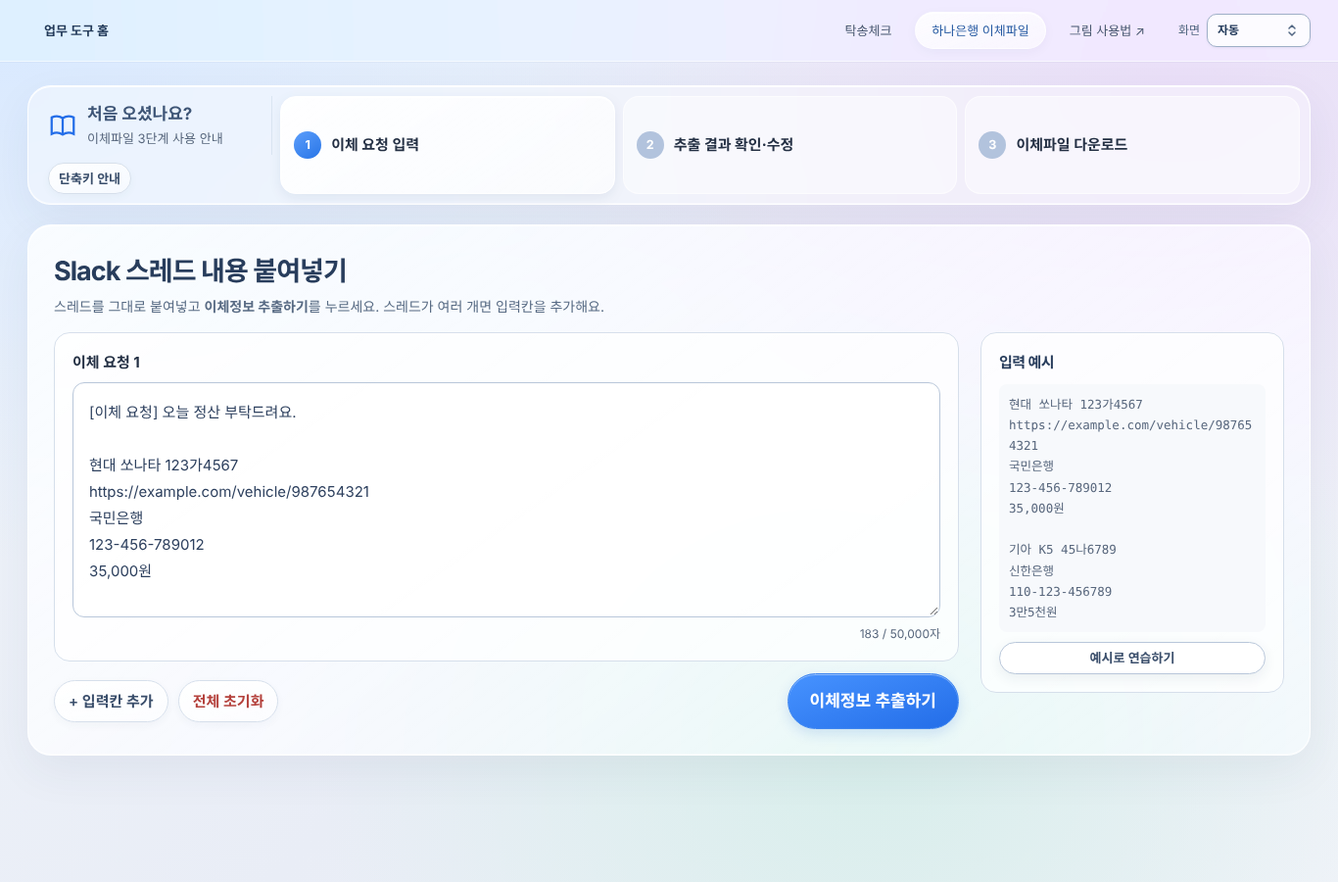
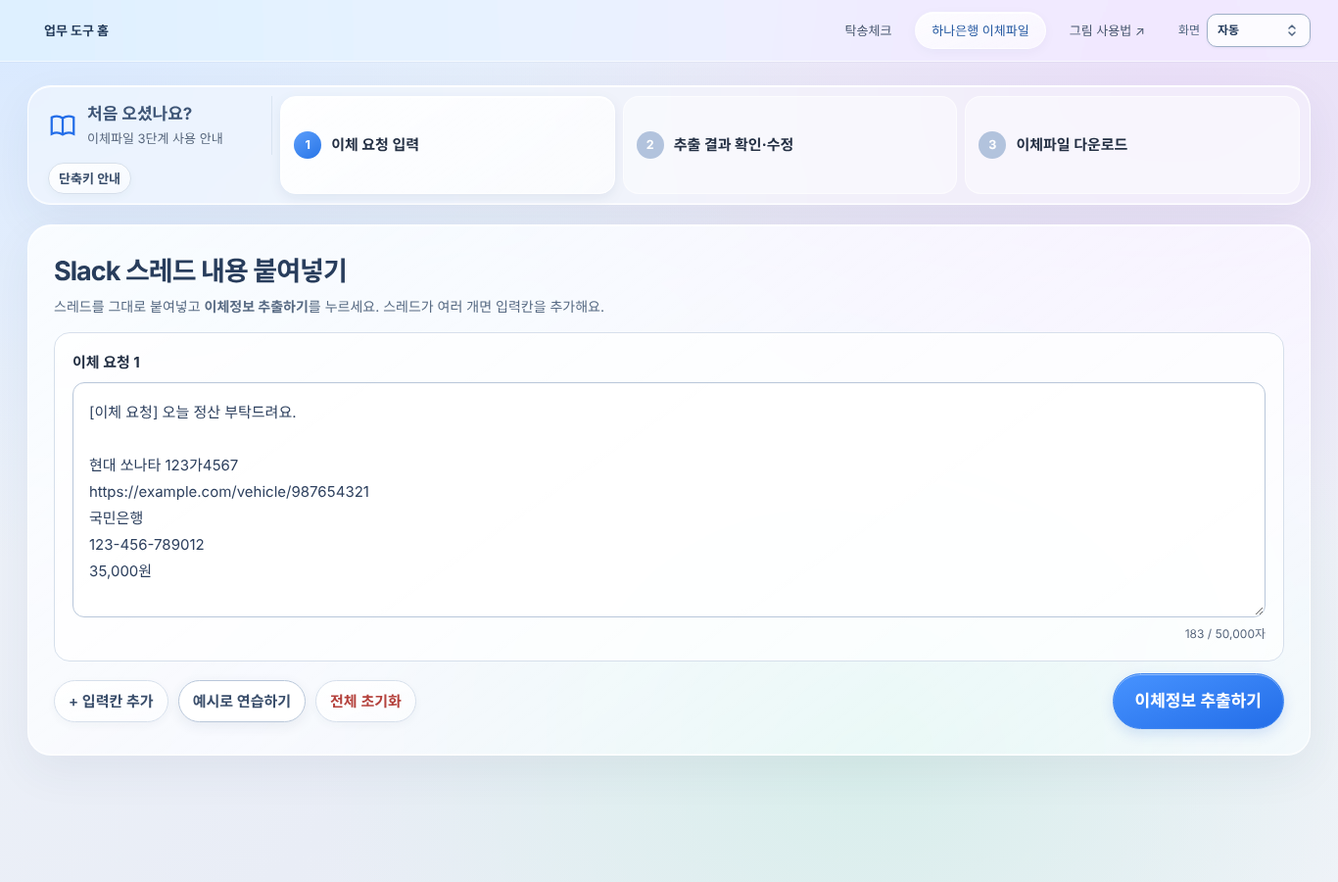
이체파일 1단계 입력 예시 상자 제거, 예시로 연습하기 버튼을 버튼 줄로 이동
- 입력칸이 화면 너비 전체 사용, 휴대폰에서 1단계가 한 화면에 들어옴
- 사용법 그림 번호를 화면 순서(입력칸 추가 → 예시 → 추출)로 재생성

Claude-Session: https://claude.ai/code/session_01U6esxNTNJgsoCbKuaTQs7w

diff --git a/changelog.html b/changelog.html
@@ -3,4 +3,4 @@
 :root{font-family:-apple-system,BlinkMacSystemFont,"Segoe UI","Malgun Gothic",sans-serif;color:#253e35;background:#f5f7f5;line-height:1.8}*{box-sizing:border-box}body{margin:0}a{color:#254b3b;text-underline-offset:4px}a:hover{text-decoration-thickness:2px}a:focus-visible,summary:focus-visible{outline:3px solid #397956;outline-offset:4px}nav{display:flex;flex-wrap:wrap;gap:12px 24px;padding:14px max(20px,calc((100vw - 1120px)/2));background:#fff;border-bottom:1px solid #dfe7e1;font-size:14px}nav a{text-decoration:none}main{max-width:1120px;margin:auto;padding:44px 24px 64px}.eyebrow{font-size:12px;letter-spacing:2px;color:#60766a}h1{font-size:clamp(28px,5vw,40px);line-height:1.35;letter-spacing:-1px;margin:12px 0 16px}h2{font-size:23px;line-height:1.5;margin:0 0 18px}h3{font-size:17px;margin:24px 0 8px}p{margin:10px 0}header>p{color:#60766a;max-width:740px}.button{display:inline-block;background:#254b3b;color:#fff;border-radius:9px;padding:10px 18px;text-decoration:none;margin:12px 0}.layout{display:grid;grid-template-columns:220px minmax(0,1fr);gap:28px;margin-top:28px}.toc{align-self:start;position:sticky;top:20px;background:#fff;border:1px solid #dfe7e1;border-radius:14px;padding:20px;font-size:14px}.toc strong{display:block;margin-bottom:12px}.toc a{display:block;padding:5px 0;text-decoration:none}.content{min-width:0}section{background:#fff;border:1px solid #dfe7e1;border-radius:14px;padding:28px;margin-bottom:20px;scroll-margin-top:20px}li{margin:8px 0}ol,ul{padding-left:23px}.note{background:#edf5ee;border-left:4px solid #397956;padding:12px 16px;border-radius:5px;margin:16px 0}.review-note{background:#fff4db;border-color:#a66a00}pre{background:#f5f7f5;border:1px solid #e0e8e2;padding:16px;border-radius:9px;overflow:auto;font-size:14px;line-height:1.8}code{font-family:ui-monospace,monospace}.tablewrap{overflow-x:auto}table{border-collapse:collapse;width:100%;font-size:14px}th,td{padding:12px;text-align:left;vertical-align:top;border-bottom:1px solid #e0e8e2}th{background:#f5f7f5;white-space:nowrap}.badge{display:inline-block;font-size:13px;font-weight:650;border-radius:5px;padding:3px 8px;white-space:nowrap}.needs{background:#fff4db;color:#8a5700}.missing{background:#eef1f4;color:#526171}.waiting{background:#e8f2ff;color:#245b9e}details{border-bottom:1px solid #e0e8e2;padding:14px 0}summary{cursor:pointer;font-weight:650}footer{font-size:13px;color:#60766a;margin-top:28px}@media(max-width:760px){main{padding:28px 16px 40px}.layout{grid-template-columns:1fr;gap:20px}.toc{position:static}.toc a{display:inline-block;margin-right:16px}section{padding:22px 18px}th,td{padding:10px 8px}}@media print{nav,.toc,.button{display:none}.layout{display:block}main{max-width:none;padding:0}section{break-inside:avoid;border:0;padding:15px 0}body{background:#fff}details{break-inside:avoid}}
  .commits{font-size:12px;color:#60766a;line-height:2;overflow-wrap:anywhere}caption{text-align:left;font-weight:650;padding:12px 0}h2 time{font-variant-numeric:tabular-nums}</style><link rel="stylesheet" href="./assets/mac-glass.css?v=20261118-1">
 <script src="./assets/theme.js?v=20261116-1"></script>
-</head><body class="mac-ui" data-page="changelog"><nav aria-label="기능 이동"><a href="./index.html">← 홈</a><a href="./dispatch.html">탁송체크</a><a href="./transfer.html">하나은행 이체파일</a><a href="./changelog.html" aria-current="page">Change Log</a></nav><main id="top"><header><div class="eyebrow">WORKTOOL UPDATES</div><h1>Change Log</h1><p>탁송체크와 하나은행 이체툴의 주요 변경사항을 날짜별로 확인하세요.</p><p>날짜는 main 반영 이력의 한국 시간 기준이며, 같은 날의 수정은 최종 반영된 동작으로 정리했어요.</p><a href="https://github.com/chowonki/WorkTool/blob/main/CHANGELOG.md" target="_blank" rel="noopener">GitHub에서 보기 ↗</a></header><div class="layout"><aside class="toc" aria-label="변경 날짜"><strong>날짜별 보기</strong><a href="#date-2026-11-04">2026-11-04</a><a href="#date-2026-11-03">2026-11-03</a><a href="#date-2026-11-02">2026-11-02</a><a href="#date-2026-10-31">2026-10-31</a><a href="#date-2026-10-30">2026-10-30</a><a href="#date-2026-10-29">2026-10-29</a></aside><div class="content"><section id="date-2026-11-18"><h2><time datetime="2026-11-18">2026-11-18</time></h2><h3>불필요한 항목 정리</h3><ul><li>탁송체크: 제목 위아래의 영문 표시·설명 문장, '이 기기에서만 처리' 표시, 카드 안 안내 문장, '자동인식' 표시, 조회 버튼 아래 안내, 빈 화면 태그, 아래쪽 열 안내 줄을 지웠어요.</li><li>탁송체크 표: '선택'과 '완료' 체크를 나란히 놓아 한 줄 높이를 줄이고, 전체 선택·필터 지우기·열 너비 초기화를 '조회 결과' 제목 줄로 올렸어요.</li><li>이체파일: 단계 버튼의 보조 설명, 1단계 도움말 상자(사용 안내 창과 중복), 2단계의 반복 안내, 3단계 열 순서 설명을 지우고 남은 안내 문장은 짧게 줄였어요.</li><li>홈: 긴 설명 문장을 줄이고 아래쪽 버전 표시를 지웠어요.</li><li>바뀐 화면에 맞춰 사용법 그림을 다시 만들었어요.</li></ul><h3>화면 배치</h3><ul><li>탁송체크 위쪽 머리줄 세 겹을 하나로 합쳤어요. 체험 데이터·전체 초기화·도움말(?) 버튼이 제목 옆에 모였어요.</li><li>탁송체크 입력 카드 두 개를 나란히 넓게 놓고, 차량 조회하기 버튼을 그 아래 오른쪽에 뒀어요. 결과 필터는 탭 한 줄, 필터·검색 한 줄로 정리했어요.</li><li>이체파일 1단계 버튼을 한 줄로 모았어요(입력칸 추가·전체 초기화 왼쪽, 이체정보 추출하기 오른쪽).</li><li>이체파일 2단계는 이체 내역 표를 넓은 왼쪽에, 통장 메모·CMS 설정을 오른쪽에 두고, 표 도구 버튼을 한 줄로 합쳤어요.</li><li>이체파일 3단계는 미리보기 → 확인 체크 → 다운로드 → 주의 → 송금 코멘트 순서로 바꿨어요.</li><li>휴대폰에서 이체 내역 카드가 상자 밖으로 넘치던 문제와 3단계 화면이 옆으로 밀리던 문제를 고쳤어요.</li><li>바뀐 배치에 맞춰 사용법 그림을 다시 만들었어요.</li></ul></section><section id="date-2026-11-17"><h2><time datetime="2026-11-17">2026-11-17</time></h2><h3>사용법 그림</h3><ul><li>그림 사용법 스크린샷 4장을 지금 Liquid Glass 화면으로 다시 찍었어요. 화면 위에는 번호와 파란 테두리만 표시하고, 설명은 아래 카드에 해요체로 정리했어요.</li><li>그림 사용법·상세 사용방법의 그림 설명을 새 그림의 번호에 맞춰 다시 썼어요.</li><li>탁송체크 표에서 '중첩 비용 · 선택 필요' 드롭다운과 탁송비용 머리글이 잘리지 않게 기본 열 너비를 넓혔어요.</li><li>연결된 곳이 없던 예전 탁송체크 화면(dispatch-tool.html)을 지웠어요.</li></ul><h3>문구·사용법</h3><ul><li>탁송체크 상세 사용방법·README를 지금 화면에 맞게 줄였어요. 지금은 없는 수동확인, 중복 검토 목록, 탁송건 선택, 처리 완료 일괄 표시 설명을 지우고, 실제 조회 기준·조회 상태·일정/비용 선택·필터·저장 범위를 정리했어요.</li><li>사용법 문서가 없는 기능을 다시 설명하거나 딱딱한 말투가 섞이면 자동 테스트가 알려 줘요.</li><li>사이트 전체 안내 문구를 친근한 해요체(예: 확인해요, 붙여요)로 바꿨어요.</li><li>이체파일 상세 사용방법과 README를 지금 화면에 맞게 다시 썼어요. 예전 3페이지 구성·4시간 임시 저장·되돌리기처럼 지금은 없는 기능 설명을 지웠어요.</li><li>사용 설명서의 '입력 내용이 사라졌어요' 등 자주 묻는 질문을 실제 동작에 맞게 고쳤어요.</li><li>한글이 줄 끝에서 단어 중간에 끊기지 않게 했고, 사용법 페이지 위쪽 메뉴도 유리 스타일로 맞췄어요.</li></ul><h3>화면·공통</h3><ul><li>Liquid Glass 화면을 다듬었어요. 유리 효과는 바깥 판에만 쓰고 안쪽 상자는 겹쳐 흐리지 않게 해 글자가 더 또렷해요.</li><li>바깥 판·안쪽 상자·버튼의 모서리 둥글기를 단계별로 맞추고, 흰 바탕에 묻히던 버튼에 얇은 테두리를 넣었어요. 버튼은 캡슐 모양으로 통일했어요.</li><li>남아 있던 녹색 아이콘, 표 아래 흰 빈칸, 탁송체크 검색칸 이중 테두리, 다크 모드의 흰 ? 버튼을 정리했어요.</li><li>휴대폰에서 위쪽 메뉴가 두 줄로 깨지지 않고, 이체 단계 버튼 글자가 한 글자씩 줄바꿈되지 않게 했어요.</li><li>두 도구 위쪽 메뉴와 홈에 '그림 사용법' 링크를 넣었어요.</li><li>이체 금액에서 3.5억(→5억), 35,000.50원(→50원), -35,000원(→35,000원), 1/2만원(→2만원)처럼 잘못 읽히던 표기를 금액 확인 오류로 표시해요.</li><li>자동 테스트를 지금 화면 기준으로 다시 작성하고, 이체파일 실제 브라우저 테스트를 추가했어요.</li></ul><h3>하나은행 이체파일</h3><ul><li>이미 추출한 스레드를 고쳐서 다시 추출하면 전에 넣은 건은 다시 넣지 않고 새 건만 추가해요. 같은 스레드를 다른 입력칸에 또 붙여넣으면 건너뛰어요.</li><li>같은 은행·계좌·금액이 두 줄 이상이면 '두 번 송금 주의' 검토로 표시하고, 휴대폰 번호 형태의 계좌번호도 원문 확인 검토로 표시해요.</li><li>날짜·시간 줄을 계좌번호로 잘못 읽지 않아요.</li><li>나누면 100건을 넘는 큰 금액은 화면이 멈추지 않도록 나누지 않고 오류로 표시해요.</li><li>메모에 섞인 보이지 않는 제어문자를 지워 엑셀 파일이 깨지지 않게 했어요.</li><li>검토 확인 체크 후 내역을 바꾸면 다시 확인해야 받을 수 있고, 다운로드 버튼을 연달아 눌러도 한 번만 저장돼요.</li><li>붙여넣기 한도를 5만 자로 늘리고 잘리면 안내해요. 받지 않은 내역이 있을 때 새로고침·창 닫기를 하면 한 번 물어요.</li></ul></section><section id="date-2026-11-04"><h2><time datetime="2026-11-04">2026-11-04</time></h2><h3>탁송체크</h3><ul><li>탁송비용, 탁송비용 부가세, 총 탁송비용 항목을 추가했어요. 부가세는 탁송비용의 10%, 총 탁송비용은 비용과 부가세의 합계예요.</li><li>비용·부가세·총액을 각각 클릭하면 쉼표와 원 표시를 제외한 숫자를 복사해요. 미입력·선택 필요 상태는 복사하지 않아요.</li><li>세 비용 항목을 TXT·Excel·PDF 저장과 체험 데이터에 반영했어요. 빈칸은 미입력으로 유지하며, 탁송건을 선택하면 해당 기록의 비용을 적용해요.</li><li>동일 차량의 여러 탁송 기록을 날짜·업체·상태·금액·출발지·원본 위치로 비교하고 표시할 한 건을 직접 선택할 수 있어요. 선택은 결과·복사·저장에 반영되며 자동 조회로 되돌릴 수 있어요.</li><li>상단에 중복 검토 필요 차량 수와 검토 목록 링크를 추가했어요. 링크는 기존 필터를 해제하고 검토 대상만 표시하며, 탁송건을 적용한 차량은 목록에서 빠져요.</li><li>원본 탁송일시에 시간까지 표시하고, 같은 날이라도 시간이 다른 기록을 구분해요. 날짜 매칭과 기간 필터는 일자 기준으로 유지해요.</li><li>탁송완료일시·탁송접수일시를 함께 표시하고 두 값 중 최신 시각으로 기록을 정렬해요. 둘 다 없으면 탁송일시를 사용해요. 입력 날짜가 있으면 같은 운행일 내에서 비교하며, 금액 충돌·별도 운행은 사용자가 최종 선택해요.</li><li>체험 자료에도 업체별 접수 시각 열과 완료일시를 넣었어요. 12서7567·25마7579는 중복 검토·기록 선택, 77다1234는 캐리어 분류 예시예요.</li></ul><h3>공통</h3><ul><li>날짜별 변경 이력을 확인할 수 있는 Change Log 페이지와 CHANGELOG.md를 추가했어요. 홈과 각 도구 상단, README에서 열 수 있어요.</li></ul><div class="tablewrap"><table><caption>업체별 읽기 기준</caption><thead><tr><th scope="col">업체</th><th scope="col">접수일시 우선 열</th><th scope="col">탁송비용 열</th></tr></thead><tbody><tr><td>한빛탁송</td><td>I열</td><td>AP열</td></tr><tr><td>오픈마일</td><td>A열</td><td>U열</td></tr><tr><td>렌톡</td><td>C열 요청 시각</td><td>S열</td></tr></tbody></table></div><p class="commits">관련 변경: <a href="https://github.com/chowonki/WorkTool/commit/6a450fa" target="_blank" rel="noopener">총 탁송비용·개별 복사 (6a450fa)</a> · <a href="https://github.com/chowonki/WorkTool/commit/bfab8ce" target="_blank" rel="noopener">탁송비용·부가세 (bfab8ce)</a> · <a href="https://github.com/chowonki/WorkTool/commit/b247080" target="_blank" rel="noopener">중복 기록 선택 (b247080)</a> · <a href="https://github.com/chowonki/WorkTool/commit/386feee" target="_blank" rel="noopener">최신 시각 비교 (386feee)</a></p></section><section id="date-2026-11-03"><h2><time datetime="2026-11-03">2026-11-03</time></h2><h3>탁송체크</h3><ul><li>차량 선택 체크박스를 누른 채 드래그하여 여러 행을 연속 선택·해제할 수 있어요.</li><li>한빛탁송·오픈마일·렌톡별 일괄 선택 체크박스를 추가했어요. 현재 필터에 맞는 차량에 적용하고 선택 대수와 부분 선택 상태를 표시해요.</li><li>렌톡 캐리어 분류를 J열 캐리어탁송의 Y 여부로 판정하도록 변경했어요. 완료 여부와 관계없이 캐리어로 분류하고 렌톡 문의 목록에서 제외해요.</li><li>상세 사용방법 페이지를 만들고 홈·도구 화면에 새 탭 링크를 추가했어요.</li><li>렌톡 시트 다운로드 시 기간 기준을 요청시각에서 출발시각으로 변경해야 한다는 주의사항을 안내에 추가했어요.</li></ul><h3>하나은행 이체툴</h3><ul><li>상세 사용방법 페이지를 만들고 입력·검증·금액 분할·통장 메모·다운로드·복원·코멘트 사용을 안내해요.</li><li>송금완료 코멘트의 금액이 만원 단위로 나누어떨어지면 1,000,000원 → 100만원으로 표시해요. 나머지가 있으면 35,000원 → 35,000원처럼 원 단위 전체 금액으로 표시해요.</li><li>딜러 송금 코멘트에서 금액 대신 차대금을 사용해요. 예: 차대금 100만원 딜러에게 송금완료.</li><li>분할·복수 송금 코멘트에 총액을 함께 표시해요. 자동 분할한 건은 원래 지급 건으로 묶어 중복 합산하지 않아요.</li></ul><p class="commits">관련 변경: <a href="https://github.com/chowonki/WorkTool/commit/93286b2" target="_blank" rel="noopener">드래그·업체별 선택 (93286b2)</a> · <a href="https://github.com/chowonki/WorkTool/commit/4618c99" target="_blank" rel="noopener">렌톡 캐리어 판정 (4618c99)</a> · <a href="https://github.com/chowonki/WorkTool/commit/88dc1ae" target="_blank" rel="noopener">코멘트 금액 표시 (88dc1ae)</a> · <a href="https://github.com/chowonki/WorkTool/commit/e970648" target="_blank" rel="noopener">복수 송금 총액 (e970648)</a></p></section><section id="date-2026-11-02"><h2><time datetime="2026-11-02">2026-11-02</time></h2><h3>탁송체크</h3><ul><li>한빛탁송의 주유/부대비용 총액이 빈칸이면 0원으로 처리해요. 오픈마일의 빈 금액은 미입력으로 유지해요.</li><li>상태 색상을 구분했어요. 확인 필요는 주황색, 미조회는 회색, 미완료·완료 대기는 파란색이에요.</li></ul><p class="commits">관련 변경: <a href="https://github.com/chowonki/WorkTool/commit/dfee409" target="_blank" rel="noopener">한빛 빈 금액 처리 (dfee409)</a> · <a href="https://github.com/chowonki/WorkTool/commit/8566546" target="_blank" rel="noopener">상태 색상 구분 (8566546)</a></p></section><section id="date-2026-10-31"><h2><time datetime="2026-10-31">2026-10-31</time></h2><h3>하나은행 이체툴</h3><ul><li>음수·소수·잘못된 쉼표 표기를 자동으로 양수 송금액으로 보정하지 않도록 금액 검증을 강화했어요. 직접 수정한 금액에도 같은 기준을 적용해요.</li><li>은행명·약칭 일치 여부와 1억 원 초과 자동 분할 후 100건 한도를 검사해요.</li><li>다운로드 파일명을 차량번호·총액·한국 시간 생성 시각으로 자동 작성하고, 같은 초의 재다운로드에는 순번을 붙여요.</li><li>Slack 스레드 내용을 직접 붙여넣는 입력 방식으로 정리했어요.</li></ul><p class="commits">관련 변경: <a href="https://github.com/chowonki/WorkTool/commit/0a2e6c9" target="_blank" rel="noopener">금액·분할 검증 (0a2e6c9)</a> · <a href="https://github.com/chowonki/WorkTool/commit/a35cac4" target="_blank" rel="noopener">다운로드 파일명 (a35cac4)</a> · <a href="https://github.com/chowonki/WorkTool/commit/c216898" target="_blank" rel="noopener">붙여넣기 입력 방식 (c216898)</a></p></section><section id="date-2026-10-30"><h2><time datetime="2026-10-30">2026-10-30</time></h2><h3>하나은행 이체툴</h3><ul><li>여러 스레드를 일괄 추출할 때 차량번호를 체크하여 대상을 선택하는 기능을 추가했어요.</li><li>하나의 스레드에 여러 차량이 있으면 코멘트 대상을 공통 적용하고 같은 지급 금액을 차량 수만큼 중복 생성하지 않도록 처리했어요.</li></ul><p class="commits">관련 변경: <a href="https://github.com/chowonki/WorkTool/commit/4806b7d" target="_blank" rel="noopener">차량 선택 추출 (4806b7d)</a> · <a href="https://github.com/chowonki/WorkTool/commit/bb1baf6" target="_blank" rel="noopener">다중 차량 코멘트 (bb1baf6)</a></p></section><section id="date-2026-10-29"><h2><time datetime="2026-10-29">2026-10-29</time></h2><h3>업무 도구 홈</h3><ul><li>탁송체크와 하나은행 이체파일을 선택하는 홈 화면을 구성했어요.</li></ul><h3>탁송체크</h3><ul><li>차량목록과 업체 엑셀을 대조하고 업체 전체 기록을 비교하는 조회 기능을 정리했어요.</li><li>원본 근거 확인, 개별 차량번호·금액 복사, 선택 저장, 처리 완료 표시와 합계를 추가했어요.</li><li>입력일 일치 여부, 금액 미입력·0원 구분, 중복·충돌 검사와 수동확인 금액·사유 저장 기능을 강화했어요.</li><li>진행 중·완료·제주·캐리어 차량을 구분해 확인할 수 있도록 요약과 필터를 정리했어요.</li><li>오픈마일의 같은 날짜 진행·취소 기록과 완료 기록이 함께 있을 때의 우선 적용 기준을 보완했어요. 이후 완료·접수 시각 비교 기능은 2026-11-04에 추가했어요.</li></ul><h3>하나은행 이체툴</h3><ul><li>체크박스 선택·일괄 삭제, 총액, 검토 필요 필터, 원문 확인, 여러 스레드 입력과 추출 단축키를 추가했어요.</li><li>다운로드 후 자동 초기화와 되돌리기·마지막 다운로드 복원을 추가했어요.</li><li>차량번호를 선택 항목으로 처리하고 계좌 구분명을 활용한 스레드별 송금완료 코멘트와 클릭 복사를 추가했어요.</li><li>차대금 표현과 복사한 원문의 공백, 은행·계좌보다 앞에 있는 금액 등을 인식하도록 추출을 개선했어요.</li></ul><p class="commits">관련 변경: <a href="https://github.com/chowonki/WorkTool/commit/0f49815" target="_blank" rel="noopener">업무 도구 홈 (0f49815)</a> · <a href="https://github.com/chowonki/WorkTool/commit/79ec015" target="_blank" rel="noopener">탁송 검토·수동확인 (79ec015)</a> · <a href="https://github.com/chowonki/WorkTool/commit/2ae5fad" target="_blank" rel="noopener">이체 검토·복원 (2ae5fad)</a> · <a href="https://github.com/chowonki/WorkTool/commit/d729d4d" target="_blank" rel="noopener">송금완료 코멘트 (d729d4d)</a></p></section><footer><a href="#top">맨 위로 ↑</a> · <a href="./dispatch-guide.html">탁송체크 사용방법</a> · <a href="./transfer-guide.html">이체툴 사용방법</a></footer></div></div></main></body></html>
+</head><body class="mac-ui" data-page="changelog"><nav aria-label="기능 이동"><a href="./index.html">← 홈</a><a href="./dispatch.html">탁송체크</a><a href="./transfer.html">하나은행 이체파일</a><a href="./changelog.html" aria-current="page">Change Log</a></nav><main id="top"><header><div class="eyebrow">WORKTOOL UPDATES</div><h1>Change Log</h1><p>탁송체크와 하나은행 이체툴의 주요 변경사항을 날짜별로 확인하세요.</p><p>날짜는 main 반영 이력의 한국 시간 기준이며, 같은 날의 수정은 최종 반영된 동작으로 정리했어요.</p><a href="https://github.com/chowonki/WorkTool/blob/main/CHANGELOG.md" target="_blank" rel="noopener">GitHub에서 보기 ↗</a></header><div class="layout"><aside class="toc" aria-label="변경 날짜"><strong>날짜별 보기</strong><a href="#date-2026-11-04">2026-11-04</a><a href="#date-2026-11-03">2026-11-03</a><a href="#date-2026-11-02">2026-11-02</a><a href="#date-2026-10-31">2026-10-31</a><a href="#date-2026-10-30">2026-10-30</a><a href="#date-2026-10-29">2026-10-29</a></aside><div class="content"><section id="date-2026-11-18"><h2><time datetime="2026-11-18">2026-11-18</time></h2><h3>불필요한 항목 정리</h3><ul><li>이체파일 1단계 오른쪽 '입력 예시' 상자를 지웠어요. '예시로 연습하기' 버튼은 입력칸 아래 버튼 줄로 옮겼고, 누르면 예시가 입력칸에 바로 들어가요. 입력칸이 화면 너비를 다 쓰고, 휴대폰에서는 1단계가 한 화면에 들어와요.</li><li>탁송체크: 제목 위아래의 영문 표시·설명 문장, '이 기기에서만 처리' 표시, 카드 안 안내 문장, '자동인식' 표시, 조회 버튼 아래 안내, 빈 화면 태그, 아래쪽 열 안내 줄을 지웠어요.</li><li>탁송체크 표: '선택'과 '완료' 체크를 나란히 놓아 한 줄 높이를 줄이고, 전체 선택·필터 지우기·열 너비 초기화를 '조회 결과' 제목 줄로 올렸어요.</li><li>이체파일: 단계 버튼의 보조 설명, 1단계 도움말 상자(사용 안내 창과 중복), 2단계의 반복 안내, 3단계 열 순서 설명을 지우고 남은 안내 문장은 짧게 줄였어요.</li><li>홈: 긴 설명 문장을 줄이고 아래쪽 버전 표시를 지웠어요.</li><li>바뀐 화면에 맞춰 사용법 그림을 다시 만들었어요.</li></ul><h3>화면 배치</h3><ul><li>탁송체크 위쪽 머리줄 세 겹을 하나로 합쳤어요. 체험 데이터·전체 초기화·도움말(?) 버튼이 제목 옆에 모였어요.</li><li>탁송체크 입력 카드 두 개를 나란히 넓게 놓고, 차량 조회하기 버튼을 그 아래 오른쪽에 뒀어요. 결과 필터는 탭 한 줄, 필터·검색 한 줄로 정리했어요.</li><li>이체파일 1단계 버튼을 한 줄로 모았어요(입력칸 추가·전체 초기화 왼쪽, 이체정보 추출하기 오른쪽).</li><li>이체파일 2단계는 이체 내역 표를 넓은 왼쪽에, 통장 메모·CMS 설정을 오른쪽에 두고, 표 도구 버튼을 한 줄로 합쳤어요.</li><li>이체파일 3단계는 미리보기 → 확인 체크 → 다운로드 → 주의 → 송금 코멘트 순서로 바꿨어요.</li><li>휴대폰에서 이체 내역 카드가 상자 밖으로 넘치던 문제와 3단계 화면이 옆으로 밀리던 문제를 고쳤어요.</li><li>바뀐 배치에 맞춰 사용법 그림을 다시 만들었어요.</li></ul></section><section id="date-2026-11-17"><h2><time datetime="2026-11-17">2026-11-17</time></h2><h3>사용법 그림</h3><ul><li>그림 사용법 스크린샷 4장을 지금 Liquid Glass 화면으로 다시 찍었어요. 화면 위에는 번호와 파란 테두리만 표시하고, 설명은 아래 카드에 해요체로 정리했어요.</li><li>그림 사용법·상세 사용방법의 그림 설명을 새 그림의 번호에 맞춰 다시 썼어요.</li><li>탁송체크 표에서 '중첩 비용 · 선택 필요' 드롭다운과 탁송비용 머리글이 잘리지 않게 기본 열 너비를 넓혔어요.</li><li>연결된 곳이 없던 예전 탁송체크 화면(dispatch-tool.html)을 지웠어요.</li></ul><h3>문구·사용법</h3><ul><li>탁송체크 상세 사용방법·README를 지금 화면에 맞게 줄였어요. 지금은 없는 수동확인, 중복 검토 목록, 탁송건 선택, 처리 완료 일괄 표시 설명을 지우고, 실제 조회 기준·조회 상태·일정/비용 선택·필터·저장 범위를 정리했어요.</li><li>사용법 문서가 없는 기능을 다시 설명하거나 딱딱한 말투가 섞이면 자동 테스트가 알려 줘요.</li><li>사이트 전체 안내 문구를 친근한 해요체(예: 확인해요, 붙여요)로 바꿨어요.</li><li>이체파일 상세 사용방법과 README를 지금 화면에 맞게 다시 썼어요. 예전 3페이지 구성·4시간 임시 저장·되돌리기처럼 지금은 없는 기능 설명을 지웠어요.</li><li>사용 설명서의 '입력 내용이 사라졌어요' 등 자주 묻는 질문을 실제 동작에 맞게 고쳤어요.</li><li>한글이 줄 끝에서 단어 중간에 끊기지 않게 했고, 사용법 페이지 위쪽 메뉴도 유리 스타일로 맞췄어요.</li></ul><h3>화면·공통</h3><ul><li>Liquid Glass 화면을 다듬었어요. 유리 효과는 바깥 판에만 쓰고 안쪽 상자는 겹쳐 흐리지 않게 해 글자가 더 또렷해요.</li><li>바깥 판·안쪽 상자·버튼의 모서리 둥글기를 단계별로 맞추고, 흰 바탕에 묻히던 버튼에 얇은 테두리를 넣었어요. 버튼은 캡슐 모양으로 통일했어요.</li><li>남아 있던 녹색 아이콘, 표 아래 흰 빈칸, 탁송체크 검색칸 이중 테두리, 다크 모드의 흰 ? 버튼을 정리했어요.</li><li>휴대폰에서 위쪽 메뉴가 두 줄로 깨지지 않고, 이체 단계 버튼 글자가 한 글자씩 줄바꿈되지 않게 했어요.</li><li>두 도구 위쪽 메뉴와 홈에 '그림 사용법' 링크를 넣었어요.</li><li>이체 금액에서 3.5억(→5억), 35,000.50원(→50원), -35,000원(→35,000원), 1/2만원(→2만원)처럼 잘못 읽히던 표기를 금액 확인 오류로 표시해요.</li><li>자동 테스트를 지금 화면 기준으로 다시 작성하고, 이체파일 실제 브라우저 테스트를 추가했어요.</li></ul><h3>하나은행 이체파일</h3><ul><li>이미 추출한 스레드를 고쳐서 다시 추출하면 전에 넣은 건은 다시 넣지 않고 새 건만 추가해요. 같은 스레드를 다른 입력칸에 또 붙여넣으면 건너뛰어요.</li><li>같은 은행·계좌·금액이 두 줄 이상이면 '두 번 송금 주의' 검토로 표시하고, 휴대폰 번호 형태의 계좌번호도 원문 확인 검토로 표시해요.</li><li>날짜·시간 줄을 계좌번호로 잘못 읽지 않아요.</li><li>나누면 100건을 넘는 큰 금액은 화면이 멈추지 않도록 나누지 않고 오류로 표시해요.</li><li>메모에 섞인 보이지 않는 제어문자를 지워 엑셀 파일이 깨지지 않게 했어요.</li><li>검토 확인 체크 후 내역을 바꾸면 다시 확인해야 받을 수 있고, 다운로드 버튼을 연달아 눌러도 한 번만 저장돼요.</li><li>붙여넣기 한도를 5만 자로 늘리고 잘리면 안내해요. 받지 않은 내역이 있을 때 새로고침·창 닫기를 하면 한 번 물어요.</li></ul></section><section id="date-2026-11-04"><h2><time datetime="2026-11-04">2026-11-04</time></h2><h3>탁송체크</h3><ul><li>탁송비용, 탁송비용 부가세, 총 탁송비용 항목을 추가했어요. 부가세는 탁송비용의 10%, 총 탁송비용은 비용과 부가세의 합계예요.</li><li>비용·부가세·총액을 각각 클릭하면 쉼표와 원 표시를 제외한 숫자를 복사해요. 미입력·선택 필요 상태는 복사하지 않아요.</li><li>세 비용 항목을 TXT·Excel·PDF 저장과 체험 데이터에 반영했어요. 빈칸은 미입력으로 유지하며, 탁송건을 선택하면 해당 기록의 비용을 적용해요.</li><li>동일 차량의 여러 탁송 기록을 날짜·업체·상태·금액·출발지·원본 위치로 비교하고 표시할 한 건을 직접 선택할 수 있어요. 선택은 결과·복사·저장에 반영되며 자동 조회로 되돌릴 수 있어요.</li><li>상단에 중복 검토 필요 차량 수와 검토 목록 링크를 추가했어요. 링크는 기존 필터를 해제하고 검토 대상만 표시하며, 탁송건을 적용한 차량은 목록에서 빠져요.</li><li>원본 탁송일시에 시간까지 표시하고, 같은 날이라도 시간이 다른 기록을 구분해요. 날짜 매칭과 기간 필터는 일자 기준으로 유지해요.</li><li>탁송완료일시·탁송접수일시를 함께 표시하고 두 값 중 최신 시각으로 기록을 정렬해요. 둘 다 없으면 탁송일시를 사용해요. 입력 날짜가 있으면 같은 운행일 내에서 비교하며, 금액 충돌·별도 운행은 사용자가 최종 선택해요.</li><li>체험 자료에도 업체별 접수 시각 열과 완료일시를 넣었어요. 12서7567·25마7579는 중복 검토·기록 선택, 77다1234는 캐리어 분류 예시예요.</li></ul><h3>공통</h3><ul><li>날짜별 변경 이력을 확인할 수 있는 Change Log 페이지와 CHANGELOG.md를 추가했어요. 홈과 각 도구 상단, README에서 열 수 있어요.</li></ul><div class="tablewrap"><table><caption>업체별 읽기 기준</caption><thead><tr><th scope="col">업체</th><th scope="col">접수일시 우선 열</th><th scope="col">탁송비용 열</th></tr></thead><tbody><tr><td>한빛탁송</td><td>I열</td><td>AP열</td></tr><tr><td>오픈마일</td><td>A열</td><td>U열</td></tr><tr><td>렌톡</td><td>C열 요청 시각</td><td>S열</td></tr></tbody></table></div><p class="commits">관련 변경: <a href="https://github.com/chowonki/WorkTool/commit/6a450fa" target="_blank" rel="noopener">총 탁송비용·개별 복사 (6a450fa)</a> · <a href="https://github.com/chowonki/WorkTool/commit/bfab8ce" target="_blank" rel="noopener">탁송비용·부가세 (bfab8ce)</a> · <a href="https://github.com/chowonki/WorkTool/commit/b247080" target="_blank" rel="noopener">중복 기록 선택 (b247080)</a> · <a href="https://github.com/chowonki/WorkTool/commit/386feee" target="_blank" rel="noopener">최신 시각 비교 (386feee)</a></p></section><section id="date-2026-11-03"><h2><time datetime="2026-11-03">2026-11-03</time></h2><h3>탁송체크</h3><ul><li>차량 선택 체크박스를 누른 채 드래그하여 여러 행을 연속 선택·해제할 수 있어요.</li><li>한빛탁송·오픈마일·렌톡별 일괄 선택 체크박스를 추가했어요. 현재 필터에 맞는 차량에 적용하고 선택 대수와 부분 선택 상태를 표시해요.</li><li>렌톡 캐리어 분류를 J열 캐리어탁송의 Y 여부로 판정하도록 변경했어요. 완료 여부와 관계없이 캐리어로 분류하고 렌톡 문의 목록에서 제외해요.</li><li>상세 사용방법 페이지를 만들고 홈·도구 화면에 새 탭 링크를 추가했어요.</li><li>렌톡 시트 다운로드 시 기간 기준을 요청시각에서 출발시각으로 변경해야 한다는 주의사항을 안내에 추가했어요.</li></ul><h3>하나은행 이체툴</h3><ul><li>상세 사용방법 페이지를 만들고 입력·검증·금액 분할·통장 메모·다운로드·복원·코멘트 사용을 안내해요.</li><li>송금완료 코멘트의 금액이 만원 단위로 나누어떨어지면 1,000,000원 → 100만원으로 표시해요. 나머지가 있으면 35,000원 → 35,000원처럼 원 단위 전체 금액으로 표시해요.</li><li>딜러 송금 코멘트에서 금액 대신 차대금을 사용해요. 예: 차대금 100만원 딜러에게 송금완료.</li><li>분할·복수 송금 코멘트에 총액을 함께 표시해요. 자동 분할한 건은 원래 지급 건으로 묶어 중복 합산하지 않아요.</li></ul><p class="commits">관련 변경: <a href="https://github.com/chowonki/WorkTool/commit/93286b2" target="_blank" rel="noopener">드래그·업체별 선택 (93286b2)</a> · <a href="https://github.com/chowonki/WorkTool/commit/4618c99" target="_blank" rel="noopener">렌톡 캐리어 판정 (4618c99)</a> · <a href="https://github.com/chowonki/WorkTool/commit/88dc1ae" target="_blank" rel="noopener">코멘트 금액 표시 (88dc1ae)</a> · <a href="https://github.com/chowonki/WorkTool/commit/e970648" target="_blank" rel="noopener">복수 송금 총액 (e970648)</a></p></section><section id="date-2026-11-02"><h2><time datetime="2026-11-02">2026-11-02</time></h2><h3>탁송체크</h3><ul><li>한빛탁송의 주유/부대비용 총액이 빈칸이면 0원으로 처리해요. 오픈마일의 빈 금액은 미입력으로 유지해요.</li><li>상태 색상을 구분했어요. 확인 필요는 주황색, 미조회는 회색, 미완료·완료 대기는 파란색이에요.</li></ul><p class="commits">관련 변경: <a href="https://github.com/chowonki/WorkTool/commit/dfee409" target="_blank" rel="noopener">한빛 빈 금액 처리 (dfee409)</a> · <a href="https://github.com/chowonki/WorkTool/commit/8566546" target="_blank" rel="noopener">상태 색상 구분 (8566546)</a></p></section><section id="date-2026-10-31"><h2><time datetime="2026-10-31">2026-10-31</time></h2><h3>하나은행 이체툴</h3><ul><li>음수·소수·잘못된 쉼표 표기를 자동으로 양수 송금액으로 보정하지 않도록 금액 검증을 강화했어요. 직접 수정한 금액에도 같은 기준을 적용해요.</li><li>은행명·약칭 일치 여부와 1억 원 초과 자동 분할 후 100건 한도를 검사해요.</li><li>다운로드 파일명을 차량번호·총액·한국 시간 생성 시각으로 자동 작성하고, 같은 초의 재다운로드에는 순번을 붙여요.</li><li>Slack 스레드 내용을 직접 붙여넣는 입력 방식으로 정리했어요.</li></ul><p class="commits">관련 변경: <a href="https://github.com/chowonki/WorkTool/commit/0a2e6c9" target="_blank" rel="noopener">금액·분할 검증 (0a2e6c9)</a> · <a href="https://github.com/chowonki/WorkTool/commit/a35cac4" target="_blank" rel="noopener">다운로드 파일명 (a35cac4)</a> · <a href="https://github.com/chowonki/WorkTool/commit/c216898" target="_blank" rel="noopener">붙여넣기 입력 방식 (c216898)</a></p></section><section id="date-2026-10-30"><h2><time datetime="2026-10-30">2026-10-30</time></h2><h3>하나은행 이체툴</h3><ul><li>여러 스레드를 일괄 추출할 때 차량번호를 체크하여 대상을 선택하는 기능을 추가했어요.</li><li>하나의 스레드에 여러 차량이 있으면 코멘트 대상을 공통 적용하고 같은 지급 금액을 차량 수만큼 중복 생성하지 않도록 처리했어요.</li></ul><p class="commits">관련 변경: <a href="https://github.com/chowonki/WorkTool/commit/4806b7d" target="_blank" rel="noopener">차량 선택 추출 (4806b7d)</a> · <a href="https://github.com/chowonki/WorkTool/commit/bb1baf6" target="_blank" rel="noopener">다중 차량 코멘트 (bb1baf6)</a></p></section><section id="date-2026-10-29"><h2><time datetime="2026-10-29">2026-10-29</time></h2><h3>업무 도구 홈</h3><ul><li>탁송체크와 하나은행 이체파일을 선택하는 홈 화면을 구성했어요.</li></ul><h3>탁송체크</h3><ul><li>차량목록과 업체 엑셀을 대조하고 업체 전체 기록을 비교하는 조회 기능을 정리했어요.</li><li>원본 근거 확인, 개별 차량번호·금액 복사, 선택 저장, 처리 완료 표시와 합계를 추가했어요.</li><li>입력일 일치 여부, 금액 미입력·0원 구분, 중복·충돌 검사와 수동확인 금액·사유 저장 기능을 강화했어요.</li><li>진행 중·완료·제주·캐리어 차량을 구분해 확인할 수 있도록 요약과 필터를 정리했어요.</li><li>오픈마일의 같은 날짜 진행·취소 기록과 완료 기록이 함께 있을 때의 우선 적용 기준을 보완했어요. 이후 완료·접수 시각 비교 기능은 2026-11-04에 추가했어요.</li></ul><h3>하나은행 이체툴</h3><ul><li>체크박스 선택·일괄 삭제, 총액, 검토 필요 필터, 원문 확인, 여러 스레드 입력과 추출 단축키를 추가했어요.</li><li>다운로드 후 자동 초기화와 되돌리기·마지막 다운로드 복원을 추가했어요.</li><li>차량번호를 선택 항목으로 처리하고 계좌 구분명을 활용한 스레드별 송금완료 코멘트와 클릭 복사를 추가했어요.</li><li>차대금 표현과 복사한 원문의 공백, 은행·계좌보다 앞에 있는 금액 등을 인식하도록 추출을 개선했어요.</li></ul><p class="commits">관련 변경: <a href="https://github.com/chowonki/WorkTool/commit/0f49815" target="_blank" rel="noopener">업무 도구 홈 (0f49815)</a> · <a href="https://github.com/chowonki/WorkTool/commit/79ec015" target="_blank" rel="noopener">탁송 검토·수동확인 (79ec015)</a> · <a href="https://github.com/chowonki/WorkTool/commit/2ae5fad" target="_blank" rel="noopener">이체 검토·복원 (2ae5fad)</a> · <a href="https://github.com/chowonki/WorkTool/commit/d729d4d" target="_blank" rel="noopener">송금완료 코멘트 (d729d4d)</a></p></section><footer><a href="#top">맨 위로 ↑</a> · <a href="./dispatch-guide.html">탁송체크 사용방법</a> · <a href="./transfer-guide.html">이체툴 사용방법</a></footer></div></div></main></body></html>

diff --git a/quick-guide.html b/quick-guide.html
@@ -83,7 +83,7 @@ footer{border-top:1px solid #dce7e1;margin-top:36px;padding-top:18px;font-size:1
 <h2 id="transferTitle">이체파일은 이 순서대로 만드세요</h2>
 <p class="section-description">Slack 이체 요청을 붙여넣고, 계좌·금액을 확인한 다음 Excel 파일을 저장해요. 예시로 연습하기 데이터로 찍은 실제 화면이에요.</p><p class="section-description">한 화면에서 ① 원문 입력 → ② 내역 검토 → ③ Excel 다운로드 순서로 진행해요. 새로고침하면 입력 내용이 지워지니 받기 전에는 창을 닫지 마세요.</p>
 <div class="screen-grid">
-<div class="figure-card"><figure><a href="./guide/transfer-input-annotated.png" target="_blank" rel="noopener"><img src="./guide/transfer-input-annotated.png" width="1366" height="1162" loading="lazy" alt="이체파일 1단계 화면: ① 스레드 입력칸 ② 입력칸 추가 ③ 이체정보 추출하기 ④ 예시로 연습하기"></a><figcaption><strong>1단계 · 이체 요청 입력</strong><ol><li>Slack 스레드를 그대로 붙여넣어요.</li><li>스레드가 여러 개면 입력칸을 추가해요.</li><li><b>이체정보 추출하기</b>를 누르면 2단계로 넘어가요.</li><li>처음이라면 <b>예시로 연습하기</b>로 연습해요.</li></ol><a href="./guide/transfer-input-annotated.png" target="_blank" rel="noopener">확대 보기 ↗</a> · <a href="./guide/transfer-screen.png" target="_blank" rel="noopener">주석 없는 원본</a></figcaption></figure></div>
+<div class="figure-card"><figure><a href="./guide/transfer-input-annotated.png" target="_blank" rel="noopener"><img src="./guide/transfer-input-annotated.png" width="1366" height="1162" loading="lazy" alt="이체파일 1단계 화면: ① 스레드 입력칸 ② 입력칸 추가 ③ 예시로 연습하기 ④ 이체정보 추출하기"></a><figcaption><strong>1단계 · 이체 요청 입력</strong><ol><li>Slack 스레드를 그대로 붙여넣어요.</li><li>스레드가 여러 개면 입력칸을 추가해요.</li><li>처음이라면 <b>예시로 연습하기</b>로 입력칸에 예시를 넣어 봐요.</li><li><b>이체정보 추출하기</b>를 누르면 2단계로 넘어가요.</li></ol><a href="./guide/transfer-input-annotated.png" target="_blank" rel="noopener">확대 보기 ↗</a> · <a href="./guide/transfer-screen.png" target="_blank" rel="noopener">주석 없는 원본</a></figcaption></figure></div>
 <div class="figure-card"><figure><a href="./guide/transfer-review-annotated.png" target="_blank" rel="noopener"><img src="./guide/transfer-review-annotated.png" width="1366" height="1507" loading="lazy" alt="이체파일 2단계 화면: ① 상태 카드 ② 이체 내역 표 ③ 통장 메모 일괄 입력 ④ 다음 단계 버튼"></a><figcaption><strong>2단계 · 추출 결과 확인·수정</strong><ol><li>정상·검토·오류 건수를 보고, 누르면 그 줄만 모아 봐요.</li><li>은행·계좌·금액을 원문과 대조하고 칸을 눌러 고쳐요.</li><li>통장 메모와 CMS코드를 한 번에 넣어요.</li><li>빨간 오류를 다 고친 뒤 다음 단계로 가요.</li></ol><a href="./guide/transfer-review-annotated.png" target="_blank" rel="noopener">확대 보기 ↗</a> · <a href="./guide/transfer-Review.png" target="_blank" rel="noopener">주석 없는 원본</a></figcaption></figure></div>
 <div class="figure-card"><figure><a href="./guide/transfer-download-annotated.png" target="_blank" rel="noopener"><img src="./guide/transfer-download-annotated.png" width="1366" height="1439" loading="lazy" alt="이체파일 3단계 화면: ① 미리보기 ② 검토 확인 체크 ③ 다운로드 버튼 ④ 송금 코멘트"></a><figcaption><strong>3단계 · 이체파일 다운로드</strong><ol><li>미리보기 표가 엑셀에 그대로 들어가요.</li><li>검토 필요 건이 있으면 원문과 대조한 뒤 체크해요.</li><li><b>하나은행 이체파일 다운로드</b>로 .xlsx를 받아요.</li><li>은행에서 송금을 마친 뒤 Slack에 남길 송금 코멘트를 복사해요.</li></ol><a href="./guide/transfer-download-annotated.png" target="_blank" rel="noopener">확대 보기 ↗</a> · <a href="./guide/transfer-Download.png" target="_blank" rel="noopener">주석 없는 원본</a></figcaption></figure></div>
 </div>

diff --git a/transfer-guide.html b/transfer-guide.html
@@ -10,7 +10,7 @@
 <section id="quickstart"><h2>1. 빠르게 시작하기</h2><p>한 화면에서 위쪽 단계 버튼을 따라 <strong>① 이체 요청 입력 → ② 추출 결과 확인·수정 → ③ 이체파일 다운로드</strong> 순서로 진행해요.</p><ol><li>Slack 이체 요청 스레드를 복사해 입력칸에 붙여넣어요.</li><li><strong>이체정보 추출하기</strong>를 누르면 2단계로 넘어가요.</li><li>표의 은행·계좌번호·금액·차량번호를 원문과 대조하고, 빨간 칸(오류)을 고쳐요.</li><li><strong>다음: 이체파일 만들기</strong>를 누르고, 미리보기를 확인한 뒤 <strong>하나은행 이체파일 다운로드</strong>를 눌러요.</li><li>은행 기업뱅킹 [다계좌이체] 메뉴에서 받은 파일을 올려요.</li></ol><div class="note review-note"><strong>꼭 알아 두세요</strong><p>이체파일을 만드는 건 실제 송금이 아니에요. 계좌와 받는 분이 맞는지는 은행 화면에서 한 번 더 확인해 주세요. 입력 내용은 저장되지 않아서 <strong>새로고침하거나 창을 닫으면 지워져요.</strong></p></div><div class="illustrated-steps" aria-label="화면 이미지로 보는 3단계 이체파일 사용법">
 <h3>실제 화면에 설명을 겹쳐 표시한 3단계 안내</h3>
 <p>예시로 연습하기 데이터로 찍은 실제 화면에 번호·파란 테두리·설명을 덧붙였어요. 그림 위 번호와 아래 설명 카드의 번호가 같아요. 누르면 크게 볼 수 있어요.</p>
-<figure><a href="./guide/transfer-input-annotated.png" target="_blank" rel="noopener"><img src="./guide/transfer-input-annotated.png" width="1366" height="1162" loading="lazy" alt="1단계: ① 스레드 입력칸 ② 입력칸 추가 ③ 이체정보 추출하기 ④ 예시로 연습하기"></a><figcaption>① 1단계 · 스레드 붙여넣기와 이체정보 추출</figcaption></figure>
+<figure><a href="./guide/transfer-input-annotated.png" target="_blank" rel="noopener"><img src="./guide/transfer-input-annotated.png" width="1366" height="1162" loading="lazy" alt="1단계: ① 스레드 입력칸 ② 입력칸 추가 ③ 예시로 연습하기 ④ 이체정보 추출하기"></a><figcaption>① 1단계 · 스레드 붙여넣기와 이체정보 추출</figcaption></figure>
 <figure><a href="./guide/transfer-review-annotated.png" target="_blank" rel="noopener"><img src="./guide/transfer-review-annotated.png" width="1366" height="1507" loading="lazy" alt="2단계: ① 상태 카드 ② 이체 내역 표 ③ 통장 메모 일괄 입력 ④ 다음 단계 버튼"></a><figcaption>② 2단계 · 상태 카드, 표에서 고치기, 통장 메모</figcaption></figure>
 <figure><a href="./guide/transfer-download-annotated.png" target="_blank" rel="noopener"><img src="./guide/transfer-download-annotated.png" width="1366" height="1439" loading="lazy" alt="3단계: ① 미리보기 ② 검토 확인 체크 ③ 다운로드 버튼 ④ 송금 코멘트"></a><figcaption>③ 3단계 · 미리보기, 검토 확인, 다운로드, 송금 코멘트</figcaption></figure>
 <p><a href="./quick-guide.html#transfer" target="_blank" rel="noopener">그림 사용법 크게 보기 ↗</a></p>

diff --git a/transfer.html b/transfer.html
@@ -73,7 +73,6 @@ button,input,select,textarea{font:inherit;color:inherit}
 .chip{font-size:12px;font-weight:600;border-radius:99px;padding:2px 9px;background:var(--accent-soft);color:var(--accent)}
 textarea{width:100%;min-height:200px;resize:vertical;border:1px solid var(--line);border-radius:9px;padding:12px;font:14px/1.7 ui-monospace,"SFMono-Regular",Menlo,Consolas,monospace;background:var(--soft)}
 .counter{font-size:12px;color:var(--muted);text-align:right}
-.example{font:12.5px/1.7 ui-monospace,Menlo,Consolas,monospace;white-space:pre-wrap;background:var(--soft);border-radius:8px;padding:10px;margin:0;color:var(--muted)}
 
 /* 2단계 */
 .tiles{display:grid;grid-template-columns:repeat(5,minmax(0,1fr));gap:10px}
@@ -181,6 +180,7 @@ th.filtered .filterbtn{color:#267358}
 @media (prefers-reduced-motion:reduce){*{transition:none!important}}
 
 /* 배치 정리 (2026-11-18) */
+#view1 .cols{grid-template-columns:minmax(0,1fr)!important}
 .actionbar{display:flex;gap:10px;align-items:center;flex-wrap:wrap}
 .actionbar .btn.big{margin-left:auto}
 .tsep{width:1px;height:22px;background:var(--line);margin:0 2px}
@@ -215,23 +215,12 @@ th.filtered .filterbtn{color:#267358}
         <div class="threads" id="threads"></div>
         <div class="actionbar">
       <button class="btn" id="addThread" type="button">+ 입력칸 추가</button>
+      <button class="btn" id="useExample" type="button">예시로 연습하기</button>
       <button class="btn danger" id="resetAll1" type="button">전체 초기화</button>
       <span class="grow"></span>
       <span class="fileinfo" id="extractInfo"></span>
       <button class="btn primary big" id="extract" type="button">이체정보 추출하기</button>
     </div>
-      </div>
-      <div class="side">
-        <div class="box"><h3>입력 예시</h3><pre class="example">현대 쏘나타 123가4567
-https://example.com/vehicle/987654321
-국민은행
-123-456-789012
-35,000원
-
-기아 K5 45나6789
-신한은행
-110-123-456789
-3만5천원</pre><button class="btn sm" id="useExample" type="button">예시로 연습하기</button></div>
       </div>
     </div>
   </section>

diff --git a/scripts/annotate-guide.py b/scripts/annotate-guide.py
@@ -34,8 +34,8 @@ CONFIGS = [
    "cards": [
      ("text", "Slack 스레드 붙여넣기", "이체 요청 스레드를 그대로 붙여넣어요. 링크·인사말은 알아서 건너뛰어요."),
      ("add", "입력칸 추가", "스레드가 여러 개면 칸을 나눠 넣어요. 같은 내용은 두 번 들어가지 않아요."),
+     ("example", "예시로 연습하기", "가상 예시를 입력칸에 넣어 줘요. 처음이라면 이걸로 순서를 연습해 보세요."),
      ("extract", "이체정보 추출하기", "은행·계좌번호·금액·차량번호를 뽑아서 2단계로 넘어가요."),
-     ("example", "예시로 연습하기", "처음이라면 가상 예시를 넣어 순서를 연습해 볼 수 있어요."),
    ]},
   {"key": "review", "dest": "transfer-review-annotated.png",
    "note": "은행·계좌번호·금액은 꼭 Slack 원문과 대조해 주세요. 줄에 마우스를 올리면 원문이 보여요.",
